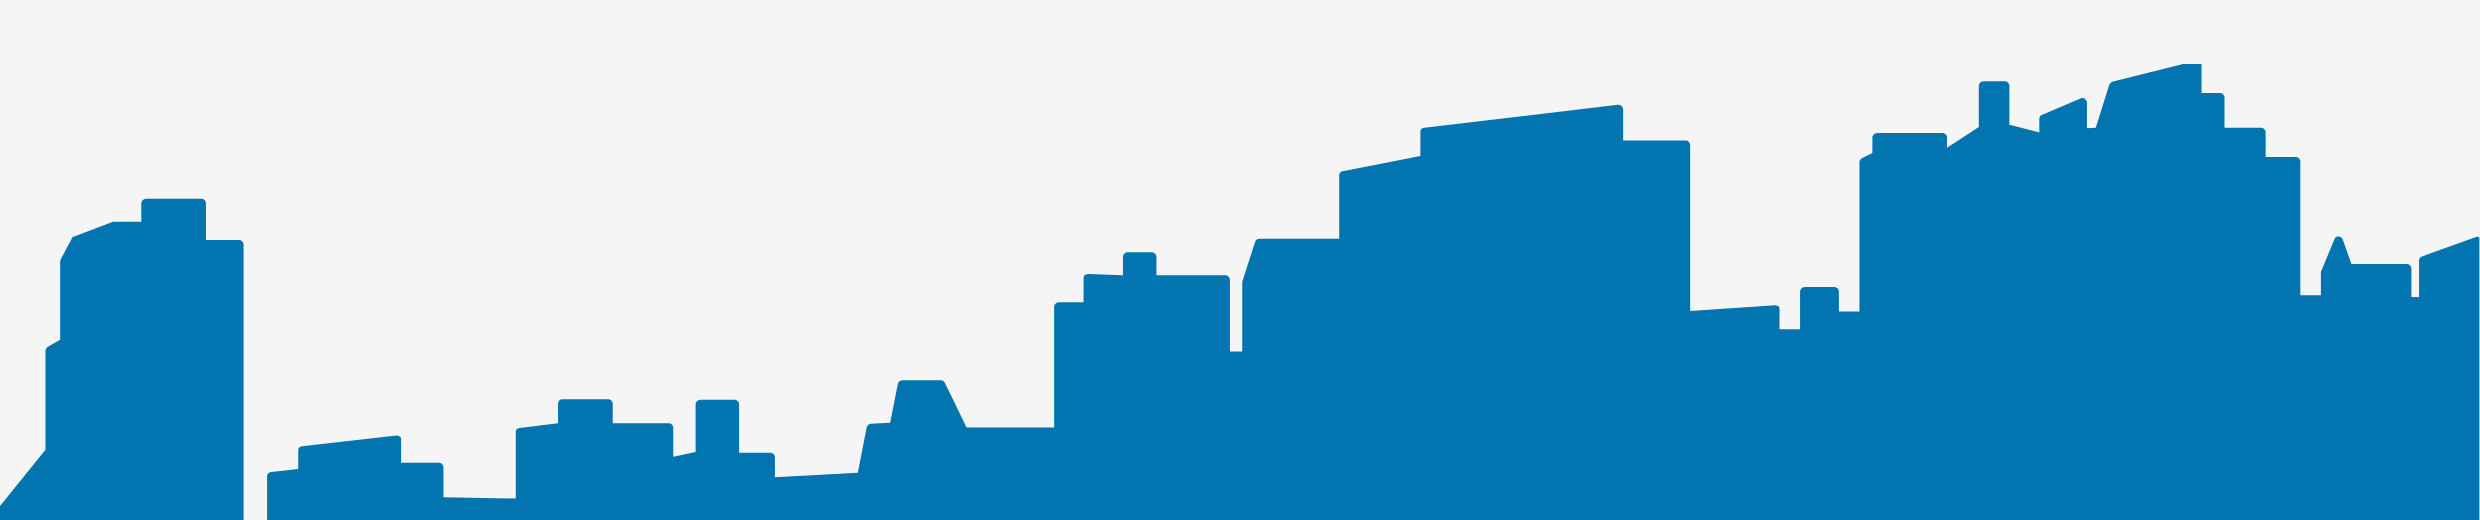
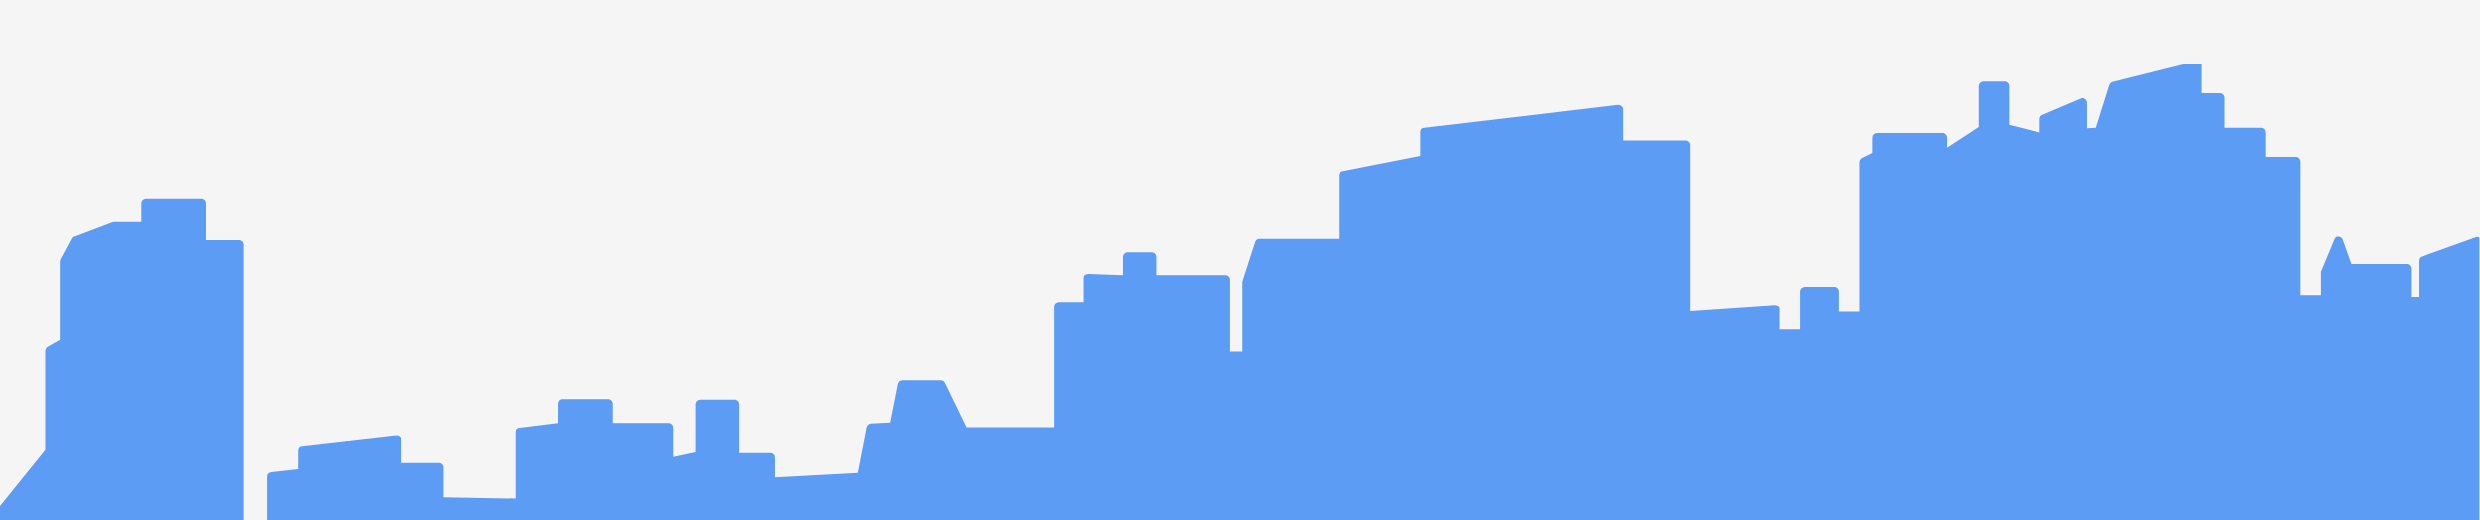
updated friends check; changed profile header logic based on api update; saved userid into local storage after fetching from current user endpoint; updated profile header image to match theme; comments cleaned up

diff --git a/src/components/profile/ProfilePage.jsx b/src/components/profile/ProfilePage.jsx
@@ -29,13 +29,7 @@ class ProfilePage extends Component {
     if (!isSelf) {
       friendsService.checkFriendStatus(currentUserID, userID).then((response) => {
         if (response) {
-          friendsService.checkFriendStatus(userID, currentUserID).then((response2) => {
-            if (response2) {
-              this.setState({ isFriends: true, isFollowing: true, loading: false });
-            } else {
-              this.setState({ isFollowing: true, loading: false });
-            }
-          });
+          this.setState({ isFriends: true, loading: false });
         }
       }).catch((error) => {
       // eslint-disable-next-line no-alert

diff --git a/src/components/profile/ProfileHeader.jsx b/src/components/profile/ProfileHeader.jsx
@@ -44,10 +44,10 @@ class ProfileHeader extends Component {
       if (!isFriends && !isFollowing) {
         return (this.renderFollowButton());
       }
-      if (!isFriends && isFollowing) {
-        return (this.renderDropDown(false));
+      if (isFriends) {
+        return (this.renderDropDown(true));
       }
-      return (this.renderDropDown(true));
+      return (this.renderDropDown(false));
     }
     return (this.renderEditProfileButton());
   };

diff --git a/src/components/PrivateRoute.jsx b/src/components/PrivateRoute.jsx
@@ -16,7 +16,8 @@ class PrivateRoute extends Component {
     auth.getCurrentUser()
       .then(((response) => {
         if (response.status === 200) {
-        // eslint-disable-next-line no-alert
+          localStorage.setItem("userID", response.data.id);
+          localStorage.setItem("username", response.data.displayName);
           this.setState({ isAuthed: true, isLoading: false });
         }
       }));

diff --git a/src/components/NavigationBar.jsx b/src/components/NavigationBar.jsx
@@ -11,7 +11,6 @@ import NavDropdown from "react-bootstrap/NavDropdown";
 import { NavLink } from "react-router-dom";
 import logo from "../images/logo.svg";
 
-// Example usage: <NavigationBar selected="Friends" />
 class NavigationBar extends Component {
   constructor(props) {
     super(props);
